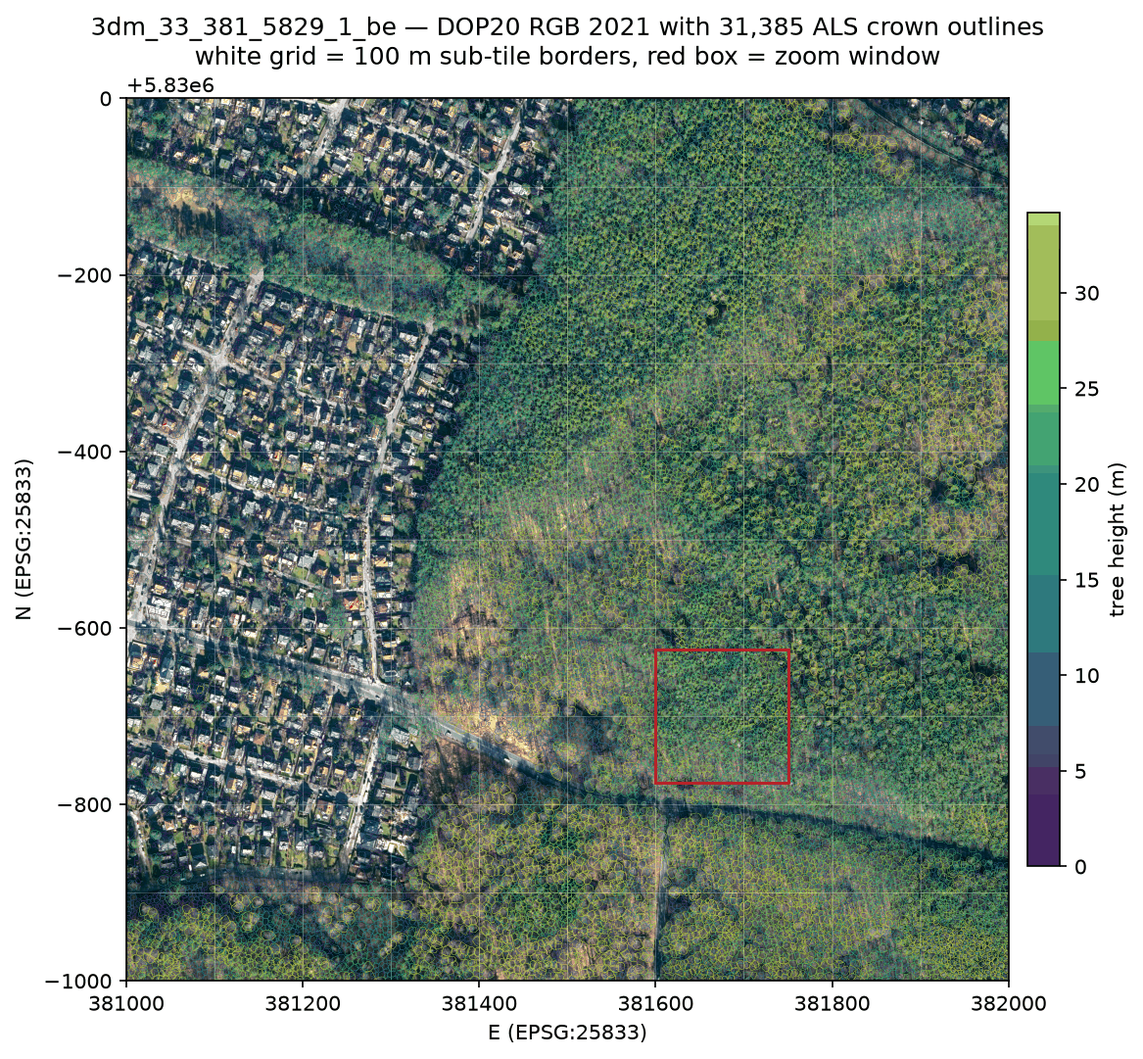
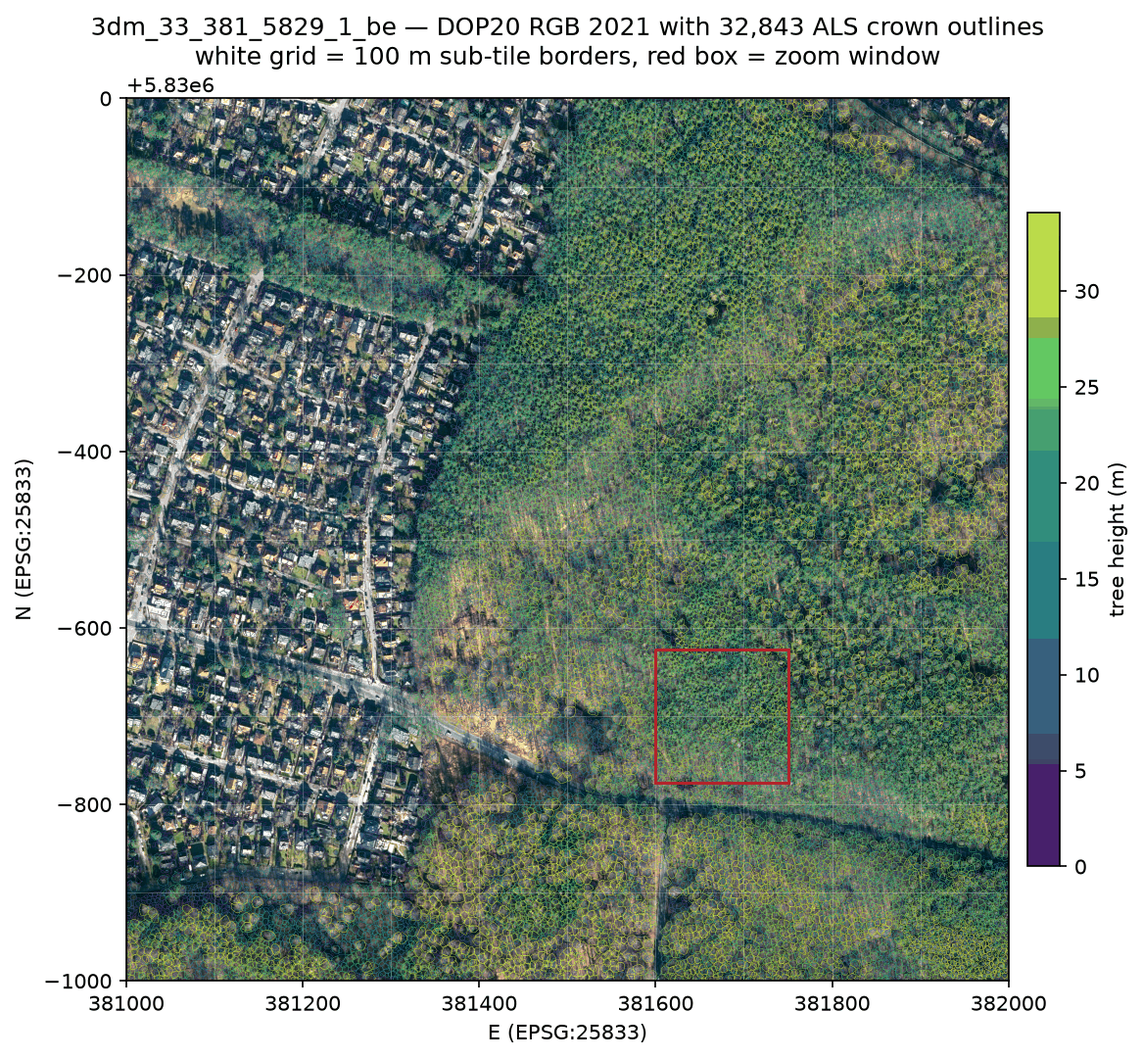
docs: full figure captions and reading guides; DOP overlay figures from the seamless mosaic, stacked
Every figure of the analytics chapter and the study-area map now carries a caption that
says what is plotted and how to read it, followed by a what-we-see paragraph with the
numbers filled from the data. The DOP overlay figures are regenerated from the seamless
33-tile mosaic (the zoom no longer shows the per-tile merge's seams: a crown on a sub-tile
border keeps one id), panels b and d are stacked at full page width, and the mosaic
panel no longer collapses the empty km column 378 (which shifted the imagery west).

diff --git a/benchmark/berlin_analytics.py b/benchmark/berlin_analytics.py
@@ -458,7 +458,16 @@ def write_doc(doc: Path, assets_rel: str, S: dict, labels: dict) -> None:
     # 2 per tile
     if "ff3d" in keys and "sat" in keys:
         lines += ["## 2. Trees per km tile", "",
-                  f"![Trees per km tile]({assets_rel}/analytics_tile_grid.png)", "",
+                  f"![Trees per km tile. Left and middle: the number of tree instances each method reports per "
+                  f"1 km tile (the label is the count in thousands; the grid is the easting and northing of the "
+                  f"tile's south-west corner in km, EPSG:25833; white cells are tiles outside the mosaic). Right: the "
+                  f"SegmentAnyTree count divided by the ForestFormer3D count, red where SegmentAnyTree finds more "
+                  f"trees, blue where it finds fewer; 1.00 would mean identical totals.]({assets_rel}/analytics_tile_grid.png)", "",
+                  "What we see: both methods agree on where the trees are -- the darkest cells are the closed forest "
+                  "in the west (R13) and north-east (the Tegel forest north of 5829), the palest are the lake tile "
+                  "381_5827 (Tegeler See, 2-3 thousand trees) and the housing to the east. The ratio map is not noise: "
+                  "it is a block of red over the R13 forest tiles and a block of blue-to-white over R12 and the "
+                  "built-up tiles, i.e. the two methods differ systematically by forest, not tile by tile.", "",
                   f"SegmentAnyTree finds {fmt(S['sat_over_ff3d'], 3)}x the ForestFormer3D tree count over the mosaic "
                   f"(per tile from {fmt(S['sat_over_ff3d_range'][0], 2)} to {fmt(S['sat_over_ff3d_range'][1], 2)}). "
                   + (f"On the {S['forest_tiles_n']} tiles that are more than half forest by the stand map the ratio averages "
@@ -471,7 +480,18 @@ def write_doc(doc: Path, assets_rel: str, S: dict, labels: dict) -> None:
 
     # 3 distributions
     lines += ["## 3. Size distributions and quality flags", "",
-              f"![Per-tree size distributions]({assets_rel}/analytics_distributions.png)", "",
+              f"![Per-tree size distributions over the whole mosaic. Each panel is a normalised histogram (area 1) "
+              f"of one attribute of the tree table, one curve per method, so curves of methods with different tree "
+              f"counts are comparable in shape: height above ground in 1 m bins; crown area (convex hull of the "
+              f"instance's points) in 4 m² bins; points per instance on a logarithmic axis. "
+              f"n is the number of trees behind each curve.]({assets_rel}/analytics_distributions.png)", "",
+              "What we see: the height panel has two modes for both methods, a tall one at 24-28 m (the pine and oak "
+              "canopy) and a short one at 4-7 m (understory, hedges, young trees in gardens), with a trough at "
+              "12-18 m; ForestFormer3D puts more mass under 8 m and SegmentAnyTree more at 20-30 m. The crown-area "
+              "panel shows SegmentAnyTree's crowns shifted to smaller areas (mode 8-12 m² against 20-30 m²) -- the "
+              "signature of cutting crowns into pieces. The points-per-tree panel has a spike at the smallest sizes "
+              "for ForestFormer3D (instances of 10-20 points, the noise-sized class of the table below) and otherwise "
+              "the same log-linear decline for both.", "",
               md_table(["method", "trees", f"flat blobs (< {FLAT_H:.0f} m, > {FLAT_AREA:.0f} m²)", f"noise-sized (< {SMALL_POINTS} points)", "taller than 40 m"],
                        [[L[k], fmt(S["methods"][k]["trees"]), f"{fmt(S['methods'][k]['flat'])} ({pct(S['methods'][k]['flat_frac'])})",
                          f"{fmt(S['methods'][k]['small'])} ({pct(S['methods'][k]['small_frac'])})",
@@ -487,7 +507,12 @@ def write_doc(doc: Path, assets_rel: str, S: dict, labels: dict) -> None:
     if S.get("three_way_tiles"):
         lines += [f"On the {len(S['three_way_tiles'])} tiles all three methods cover "
                   f"({', '.join(tile_key(t) for t in S['three_way_tiles'])}):", "",
-                  f"![Three methods on the shared tiles]({assets_rel}/analytics_distributions_3way.png)", "",
+                  f"![The same three distributions restricted to the tiles all three methods cover, now with AMS3D. "
+                  f"Same axes and binning as the previous figure.]({assets_rel}/analytics_distributions_3way.png)", "",
+                  "What we see: AMS3D has no short mode at all -- its height distribution starts at about 10 m -- and "
+                  "its crowns are the largest of the three. Mean shift with a height-dependent bandwidth merges the "
+                  "understory into the canopy tree above it, which is why it reports the fewest trees and the tallest "
+                  "ones; the two learned methods separate that layer.", "",
                   md_table(["method", "trees on these tiles", "height p10 / p50 / p90 (m)", "crown p50 (m²)"],
                            [[L[k], fmt(v["trees"]), " / ".join(fmt(x) for x in v["height_q"]), fmt(v["crown_q"][1])]
                             for k, v in S["three_way"].items()]), ""]
@@ -496,7 +521,18 @@ def write_doc(doc: Path, assets_rel: str, S: dict, labels: dict) -> None:
     if S.get("agreement"):
         a = S["agreement"]["ff3d_sat"]
         lines += ["## 4. Instance agreement: ForestFormer3D vs SegmentAnyTree", "",
-                  f"![Agreement per tile]({assets_rel}/analytics_agreement.png)", "",
+                  f"![Instance agreement per km tile between ForestFormer3D (blue) and SegmentAnyTree (magenta), "
+                  f"computed on identical points. Top: the fraction of each method's trees that have a counterpart in "
+                  f"the other method overlapping with IoU ≥ 0.5 (bars), and the median IoU of those matched pairs "
+                  f"(black line, right-hand reading on the same 0-1 axis). Bottom: the fraction of each method's "
+                  f"trees whose points are covered by two or more instances of the other method -- a tree the other "
+                  f"method has split. Tiles are ordered by easting, then northing.]({assets_rel}/analytics_agreement.png)", "",
+                  "What we see: the matched fractions move together from tile to tile (0.35-0.68) and are lowest on the "
+                  "built-up tiles (380_5830, 383_5826/5827), where both methods segment small garden vegetation "
+                  "differently, and highest on closed forest; the median IoU of a match is flat at 0.71-0.78 "
+                  "everywhere, so when the two agree on a tree they agree on its extent. The bottom panel is the "
+                  "asymmetry the whole chapter turns on: the blue bars (ForestFormer3D trees split by SegmentAnyTree) "
+                  "are 2-4x the magenta ones on every tile, 0.32-0.38 on the R13 forest tiles.", "",
                   f"Pooled over {a['tiles']} tiles and {fmt(a['n_points'])} identical points: {fmt(a['matched'])} tree pairs "
                   f"overlap with IoU ≥ 0.5, i.e. {pct(a['matched_frac_a'])} of ForestFormer3D's {fmt(a['n_a'])} trees and "
                   f"{pct(a['matched_frac_b'])} of SegmentAnyTree's {fmt(a['n_b'])}; the median IoU of a matched pair is "
@@ -511,7 +547,17 @@ def write_doc(doc: Path, assets_rel: str, S: dict, labels: dict) -> None:
 
     # 5 seams + buildings
     lines += ["## 5. Seams and the building mask", "",
-              f"![Seams and building mask]({assets_rel}/analytics_seams_buildings.png)", ""]
+              f"![Left: seam residue per km tile after the mosaic-wide stitch -- the percentage of crowns that a "
+              f"100 m grid line (the sub-tile borders used for inference) still intersects, per method; the control "
+              f"value for an arbitrary line through the same crowns is about 8 %. Right: the percentage of "
+              f"ForestFormer3D instances on each tile that the ALKIS building mask removes because at least half of "
+              f"their points lie on a roof.]({assets_rel}/analytics_seams_buildings.png)", "",
+              "What we see, left: ForestFormer3D sits at 10-12 % on every tile, i.e. 2-4 points above the control "
+              "floor, and SegmentAnyTree at 13-16 % with outliers to 20 % -- its smaller, more numerous instances "
+              "touch lines more often, and some of its matches across sub-tiles fail the IoU threshold. Neither shows "
+              "the 30-40 % that an un-haloed split produced. Right: the forest tiles lose nothing (no buildings), the "
+              "lakeside and housing tiles 5-20 %, and 383_5827 -- the densest housing -- 40 % of its instances were "
+              "roofs or roof vegetation.", ""]
     if S.get("stitch"):
         lines += [md_table(["method", "trees after stitch", "instances unified over halos", "cross-km matches", "crowns touching a grid line (mean)", "strip excess (mean pp)"],
                            [[L[k], fmt(v["n_trees"]), fmt(v["n_unified"]), fmt(v["n_cross_km"]), pct(v["touching_mean"]), fmt(v["strip_mean"], 3)]
@@ -531,7 +577,18 @@ def write_doc(doc: Path, assets_rel: str, S: dict, labels: dict) -> None:
         rows = [[sp, v["stands"], fmt(v["area_ha"], 0), fmt(v["trees"]), fmt(v["density_ha"], 0), fmt(v["inv_height"]), fmt(v["pred_median"]), fmt(v["pred_p90"]), fmt(v["crown_median"])]
                 for sp, v in sorted(S["stands"].items(), key=lambda kv: -kv[1]["area_ha"])[:8]]
         lines += ["## 6. Against the forest inventory (Forstbetriebskarte 2014)", "",
-                  f"![Predicted vs inventory height per stand]({assets_rel}/analytics_stand_heights.png)", "",
+                  f"![Predicted canopy height against the forest inventory, one marker per stand (only stands with "
+                  f"at least 20 predicted trees and an inventory height). Horizontal axis: the height of the main "
+                  f"canopy layer from the 2014 Forstbetriebskarte, a stand mean of dominant trees. Vertical axis: "
+                  f"the 90th percentile of ForestFormer3D tree heights inside that stand. Marker size scales with "
+                  f"the number of predicted trees in the stand, colour is the stand's dominant species (six most "
+                  f"frequent by area; grey = other). The dashed line is equality.]({assets_rel}/analytics_stand_heights.png)", "",
+                  f"What we see: the cloud follows the diagonal -- taller stands in the inventory are taller in the "
+                  f"predictions -- and sits {fmt(S['stands_bias_p90'])} m above it, consistently for pine, oak and larch; "
+                  "beech (green, the 30-36 m stands) lies on the line. The offset is expected: the ALS is seven growing "
+                  "seasons younger than the inventory, and a 90th percentile of tree tops exceeds a mean of dominant "
+                  "heights. The few stands far above the line at low inventory height (10-15 m) are young stands "
+                  "where tall remnant trees dominate the predicted percentile.", "",
                   md_table(["dominant species", "stands", "ha", "FF3D trees", "trees / ha", "inventory height (m)", "pred. median (m)", "pred. p90 (m)", "crown p50 (m²)"], rows), "",
                   f"Every ForestFormer3D tree was joined to the stand it stands in ({fmt(S['stands_n'])} stands with at least 20 trees). "
                   "The inventory height is the main canopy layer's height from the 2014 management inventory, a "
@@ -547,7 +604,20 @@ def write_doc(doc: Path, assets_rel: str, S: dict, labels: dict) -> None:
         rows = [[L[k], fmt(v["n_cadastre"]), pct(v["detected_frac"]), pct(v["detected_frac_street"]), pct(v["detected_frac_park"]),
                  fmt(v["n_height_pairs"]), fmt(v["height_bias"], 2), fmt(v["height_mae"], 2), fmt(v["height_r"], 2)] for k, v in c.items()]
         lines += ["## 7. Against the tree cadastre (street and park trees)", "",
-                  f"![Cadastre heights]({assets_rel}/analytics_cadastre.png)", "",
+                  f"![Street and park trees of the Berlin tree cadastre against the predictions. Left: for every "
+                  f"cadastre tree with a predicted tree top within {CADASTRE_MATCH_M:.0f} m, the cadastre's height "
+                  f"(horizontal, whole metres as recorded at inspection, hence the vertical stripes) against the "
+                  f"height of that predicted tree (vertical), one dot per tree, blue ForestFormer3D and magenta "
+                  f"SegmentAnyTree, dashed line = equality. Right: histogram of predicted minus cadastre height "
+                  f"for the same pairs, 1 m bins.]({assets_rel}/analytics_cadastre.png)", "",
+                  f"What we see: the stripes are the cadastre's integer heights, which stop at 30 m. Within each stripe "
+                  f"the predicted heights spread widely, but their centre rises with the cadastre value and the "
+                  f"residual histogram is symmetric about zero with a sharp peak (bias {fmt(S['cadastre']['ff3d']['height_bias'], 2)} m, "
+                  f"MAE {fmt(S['cadastre']['ff3d']['height_mae'])} m): most matched pairs agree to within a few metres. "
+                  "The dots far above the diagonal at cadastre heights of 4-8 m are young street trees whose nearest "
+                  "predicted top belongs to a taller neighbour's crown (the nearest-top rule assigns it anyway); the "
+                  "dots far below are large cadastre trees for which only a fragment was predicted. The two methods "
+                  "overlay almost exactly, so the scatter is the reference's and the matching rule's, not the model's.", "",
                   md_table(["method", "cadastre trees in the mosaic", "with a predicted top ≤ 3 m away", "street", "park", "height pairs", "bias (m)", "MAE (m)", "r"], rows), "",
                   "The cadastre lists managed trees with a surveyed position and a height that is updated at "
                   "inspection, so a predicted tree top within 3 m of a cadastre position is counted as a detection "

diff --git a/benchmark/plot_berlin_dop_overlays.py b/benchmark/plot_berlin_dop_overlays.py
@@ -7,6 +7,8 @@ Produces four figures into ``docs/benchmarks/assets/berlin-dop``:
   b) berlin-dop-381-5829-zoom.png     150 m zoom, DOP + ALS instance raster
   c) berlin-dop-381-5829-drone2025.png same 150 m window on the 2025 drone ortho
   d) berlin-dop-mosaic-density.png    mosaic of every tile with results + crown density
+Panels b and d are stacked vertically at full page width (2026-10-05); the crowns and
+instance rasters come from the seamless mosaic (berlin_als_2021_ff3d_v2) when present.
 
 Run with the repo's CPU venv::
 
@@ -39,7 +41,10 @@ DOP_DIRS = [
     "/Volumes/2TB/winmol/ALS_Data/berlin_dop_2021/dop_2021_rgbi",
 ]
 DOP_DIR = DOP_DIRS[0]
+# The seamless 33-tile mosaic first (ids unique across sub-tile and km-tile borders since
+# the 2026-09-24 stitch); the earlier per-tile merges only as fallbacks.
 ALS_DIRS = [
+    "/Volumes/2TB/winmol/ALS_Data/berlin_als_2021_ff3d_v2",
     "/Users/christian/work/hnee/ForestFormer3D_runs/berlin_out/berlin-2021",
     "/Volumes/2TB/winmol/ALS_Data/berlin_als_2021_ff3d",
 ]
@@ -236,7 +241,9 @@ def fig_b(zoom_bounds):
     lut[0] = 0.08
     rgbi = lut[np.clip(inst + 1, 0, len(lut) - 1)]
     rgbi[inst <= 0] = 0.08
-    fig, ax = plt.subplots(1, 2, figsize=(12.5, 6.6))
+    # two panels stacked, each the full page width: at half width the 150 m window
+    # was too small to see a single crown
+    fig, ax = plt.subplots(2, 1, figsize=(11, 22.6), constrained_layout=True)
     ax[0].imshow(stretch(img), extent=ext)
     ax[0].add_collection(LineCollection(segs, linewidths=0.9, colors="#ff2bd6"))
     ax[0].set_title("DOP20 RGB 2021 + crown outlines")
@@ -245,8 +252,11 @@ def fig_b(zoom_bounds):
     ax[1].set_title("ALS instance raster (50 cm), one colour per tree")
     for a in ax:
         a.set_xlim(ext[0], ext[1]); a.set_ylim(ext[2], ext[3])
-        a.set_xlabel("E (EPSG:25833)")
-    ax[0].set_ylabel("N (EPSG:25833)")
+        a.set_xlabel("E (EPSG:25833)"); a.set_ylabel("N (EPSG:25833)")
+        for x in np.arange(np.ceil(ext[0] / 100) * 100, ext[1], 100):
+            a.axvline(x, color="w", lw=0.7, ls="--", alpha=0.7)
+        for y in np.arange(np.ceil(ext[2] / 100) * 100, ext[3], 100):
+            a.axhline(y, color="w", lw=0.7, ls="--", alpha=0.7)
     fig.suptitle(f"{tname(MAIN)} — {int(ZOOM_SIZE)} m x {int(ZOOM_SIZE)} m zoom "
                  f"at E{int(zoom_bounds[0])} N{int(zoom_bounds[1])}, "
                  f"{len(g)} crowns")
@@ -287,8 +297,11 @@ def fig_d():
     import geopandas as gpd
     present = [t for t in TILES
                if dop_path(t)]
-    es = sorted({int(t.split("_")[0]) for t in present})
-    ns = sorted({int(t.split("_")[1]) for t in present}, reverse=True)
+    # every km column/row between the extremes, not only those with a tile: a gap in the
+    # middle (column 378 of the 33-tile L) otherwise collapses and shifts the image west
+    e_all = [int(t.split("_")[0]) for t in present]; n_all = [int(t.split("_")[1]) for t in present]
+    es = list(range(min(e_all), max(e_all) + 1))
+    ns = list(range(max(n_all), min(n_all) - 1, -1))
     cell = 420
     mosaic = np.full((len(ns) * cell, len(es) * cell, 3), 55, dtype=np.uint8)
     minx, maxx = min(es) * 1000.0, (max(es) + 1) * 1000.0
@@ -308,7 +321,8 @@ def fig_d():
     xs = np.concatenate(xs) if xs else np.array([])
     ys = np.concatenate(ys) if ys else np.array([])
     ext = (minx, maxx, miny, maxy)
-    fig, ax = plt.subplots(1, 2, figsize=(13, 6.4), constrained_layout=True)
+    # stacked: the mosaic is twice as wide as high, so side by side each panel was unreadable
+    fig, ax = plt.subplots(2, 1, figsize=(14, 7.2 * 2 * (maxy - miny) / (maxx - minx) + 3.5), constrained_layout=True)
     ax[0].imshow(mosaic, extent=ext)
     ax[0].set_title(f"DOP20 RGB 2021 mosaic — {len(present)} km tiles\n(grey = no ForestFormer3D result for that km square)", fontsize=11)
     ax[1].imshow(mosaic, extent=ext, alpha=0.55)
@@ -319,7 +333,8 @@ def fig_d():
         h = np.ma.masked_where(h == 0, h)
         im = ax[1].imshow(h.T[::-1], extent=ext, cmap="inferno", alpha=0.75,
                           vmax=np.percentile(h.compressed(), 99))
-        cb = fig.colorbar(im, ax=ax[1], fraction=0.04, pad=0.02)
+        # horizontal, below the panel: a vertical bar would narrow this panel against the top one
+        cb = fig.colorbar(im, ax=ax[1], orientation="horizontal", fraction=0.05, pad=0.04, aspect=50)
         cb.set_label("crowns per 50 m x 50 m cell")
     ax[1].set_title(f"Crown centroid density — {len(xs):,} trees\n"
                     f"over the {len(have_trees)} tiles with ForestFormer3D results",
@@ -331,7 +346,7 @@ def fig_d():
         for n in ns:
             a.axhline(n * 1000, color="w", lw=0.5, alpha=0.5)
         a.set_xlim(minx, maxx); a.set_ylim(miny, maxy)
-    ax[0].set_ylabel("N (EPSG:25833)")
+        a.set_ylabel("N (EPSG:25833)")
     return save(fig, os.path.join(OUT_DIR, "berlin-dop-mosaic-density.png"))
 
 

diff --git a/docs/benchmarks/2026-10-05-berlin-analytics.md b/docs/benchmarks/2026-10-05-berlin-analytics.md
@@ -14,13 +14,17 @@ All three methods ran on the same 20 m-halo split of each km tile and went throu
 
 ## 2. Trees per km tile
 
-![Trees per km tile](assets/analytics/analytics_tile_grid.png)
+![Trees per km tile. Left and middle: the number of tree instances each method reports per 1 km tile (the label is the count in thousands; the grid is the easting and northing of the tile's south-west corner in km, EPSG:25833; white cells are tiles outside the mosaic). Right: the SegmentAnyTree count divided by the ForestFormer3D count, red where SegmentAnyTree finds more trees, blue where it finds fewer; 1.00 would mean identical totals.](assets/analytics/analytics_tile_grid.png)
+
+What we see: both methods agree on where the trees are -- the darkest cells are the closed forest in the west (R13) and north-east (the Tegel forest north of 5829), the palest are the lake tile 381_5827 (Tegeler See, 2-3 thousand trees) and the housing to the east. The ratio map is not noise: it is a block of red over the R13 forest tiles and a block of blue-to-white over R12 and the built-up tiles, i.e. the two methods differ systematically by forest, not tile by tile.
 
 SegmentAnyTree finds 1.036x the ForestFormer3D tree count over the mosaic (per tile from 0.80 to 1.33). On the 16 tiles that are more than half forest by the stand map the ratio averages 1.06, on the other 17 tiles 1.01. The two surveyed forests differ: R12 0.96 (8 tiles with at least a quarter of the tile inside the footprint), R13 1.21 (8 tiles with at least a quarter of the tile inside the footprint). Where SegmentAnyTree reports more trees it has cut crowns into more pieces (section 4); where it reports fewer, ForestFormer3D's extra instances are mostly the small and flat ones of section 3.
 
 ## 3. Size distributions and quality flags
 
-![Per-tree size distributions](assets/analytics/analytics_distributions.png)
+![Per-tree size distributions over the whole mosaic. Each panel is a normalised histogram (area 1) of one attribute of the tree table, one curve per method, so curves of methods with different tree counts are comparable in shape: height above ground in 1 m bins; crown area (convex hull of the instance's points) in 4 m² bins; points per instance on a logarithmic axis. n is the number of trees behind each curve.](assets/analytics/analytics_distributions.png)
+
+What we see: the height panel has two modes for both methods, a tall one at 24-28 m (the pine and oak canopy) and a short one at 4-7 m (understory, hedges, young trees in gardens), with a trough at 12-18 m; ForestFormer3D puts more mass under 8 m and SegmentAnyTree more at 20-30 m. The crown-area panel shows SegmentAnyTree's crowns shifted to smaller areas (mode 8-12 m² against 20-30 m²) -- the signature of cutting crowns into pieces. The points-per-tree panel has a spike at the smallest sizes for ForestFormer3D (instances of 10-20 points, the noise-sized class of the table below) and otherwise the same log-linear decline for both.
 
 | method | trees | flat blobs (< 2 m, > 50 m²) | noise-sized (< 20 points) | taller than 40 m |
 | :--- | ---: | ---: | ---: | ---: |
@@ -34,7 +38,9 @@ The flat-blob flag is the artefact seen in the viewer: an instance with almost n
 
 On the 3 tiles all three methods cover (380_5828, 381_5828, 381_5829):
 
-![Three methods on the shared tiles](assets/analytics/analytics_distributions_3way.png)
+![The same three distributions restricted to the tiles all three methods cover, now with AMS3D. Same axes and binning as the previous figure.](assets/analytics/analytics_distributions_3way.png)
+
+What we see: AMS3D has no short mode at all -- its height distribution starts at about 10 m -- and its crowns are the largest of the three. Mean shift with a height-dependent bandwidth merges the understory into the canopy tree above it, which is why it reports the fewest trees and the tallest ones; the two learned methods separate that layer.
 
 | method | trees on these tiles | height p10 / p50 / p90 (m) | crown p50 (m²) |
 | :--- | ---: | ---: | ---: |
@@ -44,13 +50,17 @@ On the 3 tiles all three methods cover (380_5828, 381_5828, 381_5829):
 
 ## 4. Instance agreement: ForestFormer3D vs SegmentAnyTree
 
-![Agreement per tile](assets/analytics/analytics_agreement.png)
+![Instance agreement per km tile between ForestFormer3D (blue) and SegmentAnyTree (magenta), computed on identical points. Top: the fraction of each method's trees that have a counterpart in the other method overlapping with IoU ≥ 0.5 (bars), and the median IoU of those matched pairs (black line, right-hand reading on the same 0-1 axis). Bottom: the fraction of each method's trees whose points are covered by two or more instances of the other method -- a tree the other method has split. Tiles are ordered by easting, then northing.](assets/analytics/analytics_agreement.png)
+
+What we see: the matched fractions move together from tile to tile (0.35-0.68) and are lowest on the built-up tiles (380_5830, 383_5826/5827), where both methods segment small garden vegetation differently, and highest on closed forest; the median IoU of a match is flat at 0.71-0.78 everywhere, so when the two agree on a tree they agree on its extent. The bottom panel is the asymmetry the whole chapter turns on: the blue bars (ForestFormer3D trees split by SegmentAnyTree) are 2-4x the magenta ones on every tile, 0.32-0.38 on the R13 forest tiles.
 
 Pooled over 33 tiles and 584,133,672 identical points: 451,513 tree pairs overlap with IoU ≥ 0.5, i.e. 53.8 % of ForestFormer3D's 839,626 trees and 52.1 % of SegmentAnyTree's 867,266; the median IoU of a matched pair is 0.742. 26.8 % of ForestFormer3D trees are covered by two or more SegmentAnyTree instances against 11.0 % the other way round: where the two disagree, SegmentAnyTree has mostly cut one crown into several, which is also why it reports more trees.
 
 ## 5. Seams and the building mask
 
-![Seams and building mask](assets/analytics/analytics_seams_buildings.png)
+![Left: seam residue per km tile after the mosaic-wide stitch -- the percentage of crowns that a 100 m grid line (the sub-tile borders used for inference) still intersects, per method; the control value for an arbitrary line through the same crowns is about 8 %. Right: the percentage of ForestFormer3D instances on each tile that the ALKIS building mask removes because at least half of their points lie on a roof.](assets/analytics/analytics_seams_buildings.png)
+
+What we see, left: ForestFormer3D sits at 10-12 % on every tile, i.e. 2-4 points above the control floor, and SegmentAnyTree at 13-16 % with outliers to 20 % -- its smaller, more numerous instances touch lines more often, and some of its matches across sub-tiles fail the IoU threshold. Neither shows the 30-40 % that an un-haloed split produced. Right: the forest tiles lose nothing (no buildings), the lakeside and housing tiles 5-20 %, and 383_5827 -- the densest housing -- 40 % of its instances were roofs or roof vegetation.
 
 | method | trees after stitch | instances unified over halos | cross-km matches | crowns touching a grid line (mean) | strip excess (mean pp) |
 | :--- | ---: | ---: | ---: | ---: | ---: |
@@ -63,7 +73,9 @@ The ALKIS footprints cover every tile; the mask removes 35,842 of 839,626 Forest
 
 ## 6. Against the forest inventory (Forstbetriebskarte 2014)
 
-![Predicted vs inventory height per stand](assets/analytics/analytics_stand_heights.png)
+![Predicted canopy height against the forest inventory, one marker per stand (only stands with at least 20 predicted trees and an inventory height). Horizontal axis: the height of the main canopy layer from the 2014 Forstbetriebskarte, a stand mean of dominant trees. Vertical axis: the 90th percentile of ForestFormer3D tree heights inside that stand. Marker size scales with the number of predicted trees in the stand, colour is the stand's dominant species (six most frequent by area; grey = other). The dashed line is equality.](assets/analytics/analytics_stand_heights.png)
+
+What we see: the cloud follows the diagonal -- taller stands in the inventory are taller in the predictions -- and sits 4.4 m above it, consistently for pine, oak and larch; beech (green, the 30-36 m stands) lies on the line. The offset is expected: the ALS is seven growing seasons younger than the inventory, and a 90th percentile of tree tops exceeds a mean of dominant heights. The few stands far above the line at low inventory height (10-15 m) are young stands where tall remnant trees dominate the predicted percentile.
 
 | dominant species | stands | ha | FF3D trees | trees / ha | inventory height (m) | pred. median (m) | pred. p90 (m) | crown p50 (m²) |
 | :--- | ---: | ---: | ---: | ---: | ---: | ---: | ---: | ---: |
@@ -80,7 +92,9 @@ Every ForestFormer3D tree was joined to the stand it stands in (458 stands with 
 
 ## 7. Against the tree cadastre (street and park trees)
 
-![Cadastre heights](assets/analytics/analytics_cadastre.png)
+![Street and park trees of the Berlin tree cadastre against the predictions. Left: for every cadastre tree with a predicted tree top within 3 m, the cadastre's height (horizontal, whole metres as recorded at inspection, hence the vertical stripes) against the height of that predicted tree (vertical), one dot per tree, blue ForestFormer3D and magenta SegmentAnyTree, dashed line = equality. Right: histogram of predicted minus cadastre height for the same pairs, 1 m bins.](assets/analytics/analytics_cadastre.png)
+
+What we see: the stripes are the cadastre's integer heights, which stop at 30 m. Within each stripe the predicted heights spread widely, but their centre rises with the cadastre value and the residual histogram is symmetric about zero with a sharp peak (bias 0.09 m, MAE 4.3 m): most matched pairs agree to within a few metres. The dots far above the diagonal at cadastre heights of 4-8 m are young street trees whose nearest predicted top belongs to a taller neighbour's crown (the nearest-top rule assigns it anyway); the dots far below are large cadastre trees for which only a fragment was predicted. The two methods overlay almost exactly, so the scatter is the reference's and the matching rule's, not the model's.
 
 | method | cadastre trees in the mosaic | with a predicted top ≤ 3 m away | street | park | height pairs | bias (m) | MAE (m) | r |
 | :--- | ---: | ---: | ---: | ---: | ---: | ---: | ---: | ---: |

diff --git a/docs/benchmarks/2026-09-23-berlin-dop-overlay.md b/docs/benchmarks/2026-09-23-berlin-dop-overlay.md
@@ -105,7 +105,7 @@ Regenerate with `.venv-cpu/bin/python benchmark/plot_berlin_dop_overlays.py`
 
 ![full tile](assets/berlin-dop/berlin-dop-381-5829-crowns.png)
 
-All 31,385 ForestFormer3D crown polygons of `3dm_33_381_5829_1_be` on the DOP20 RGB,
+All 32,843 ForestFormer3D crown polygons of `3dm_33_381_5829_1_be` (seamless mosaic) on the DOP20 RGB,
 outlines coloured by tree height. Look for: outlines stopping cleanly at the forest
 edge against the allotment settlement in the west, the tall (yellow) outlines
 following the mature stands along the eastern and southern margins, and the fact that
@@ -118,13 +118,17 @@ the next two figures.
 
 ![zoom](assets/berlin-dop/berlin-dop-381-5829-zoom.png)
 
-`E381600 N5829225`, 150 m x 150 m, 1,161 crowns. Left: crown outlines in magenta on
-the DOP. Right: the same window of the 50 cm instance raster, one random colour per
-tree, with the outlines repeated in white. Look for: each magenta ring sitting on one
-bright canopy blob in the leaf-off imagery; the sub-tile seams at E381700 and
-N5829300, where the tile-merge leaves a one-pixel gap and occasionally splits a crown
-that straddles the border; and the black unassigned gaps between crowns, which are
-understorey and ground rather than missed trees.
+`E381600 N5829225`, 150 m x 150 m, 1,186 crowns, from the seamless 33-tile mosaic
+(figures regenerated 2026-10-05; the first version of this figure predated the
+mosaic-wide stitch and showed the per-tile merge's seams). Top: crown outlines in magenta
+on the DOP. Bottom: the same window of the 50 cm instance raster, one random colour per
+tree, with the outlines repeated in white; the dashed white lines are the 100 m sub-tile
+borders the inference ran on (E381700 and N5829300). Look for: each magenta ring sitting
+on one bright canopy blob in the leaf-off imagery; crowns that straddle a dashed line
+keeping one colour on both sides -- the halo plus stitch gives a tree on a sub-tile
+border one id, where the earlier per-tile merge left a one-pixel gap and two ids; and
+the black unassigned gaps between crowns, which are understorey and ground rather than
+missed trees.
 
 ### c) Same window, 2021 DOP vs 2025 drone ortho
 
@@ -137,18 +141,21 @@ the 2025 canopy in the closed pine matrix, versus the bare patches in the north-
 of the window where crowns have gone — windthrow and salvage between the two dates —
 and the generally larger 2025 crowns where the stand simply grew into its outlines.
 
-### d) Eleven-tile mosaic and crown density
+### d) The mosaic and its crown density
 
 ![mosaic](assets/berlin-dop/berlin-dop-mosaic-density.png)
 
-Left: the eleven fetched DOP tiles laid out on their real EPSG:25833 grid (grey =
-no tile at that grid cell in the benchmark set — only `381_5830` exists in the
-northern row). Right: the same mosaic behind a 50 m crown-centroid density map built
-from the `<tile>_trees.gpkg` files of all eleven tiles (all have ForestFormer3D results)
-(156,230 trees). Look for: density tracking the forest exactly, dropping to zero over
-the lake in the south-west, the sports field at `E380400 N5829400` and the road
-corridors, and peaking above 120 crowns per 50 m cell in the dense young pine
-regeneration — which is where the per-tree segmentation is hardest to verify by eye.
+Top: the DOP tiles of every km square with a ForestFormer3D result, laid out on their
+real EPSG:25833 grid (33 tiles since 2026-09-24; grey = no result at that grid cell --
+the L shape is the processed block, see the study-area map of the introduction).
+Bottom: the same mosaic behind a 50 m crown-centroid density map built from the
+`<tile>_trees.gpkg` files of all 33 tiles (832,130 trees). Look for: density tracking
+the forest exactly, dropping to zero over the Tegeler See, the sports field at
+`E380400 N5829400`, the airfield in the north-west of the eastern block and the road
+corridors, and peaking above 120 crowns per 50 m cell in dense young pine regeneration
+-- which is where the per-tree segmentation is hardest to verify by eye. The western
+block (R13) is as dense as the Tegel forest; its southern half is the eleven tiles now
+being processed.
 
 ## Caveats
 

diff --git a/docs/benchmarks/2026-10-05-introduction.md b/docs/benchmarks/2026-10-05-introduction.md
@@ -18,7 +18,9 @@ point clouds:
 
 ## The study area
 
-![The study area: km tiles by status, forest stands, survey footprints](assets/analytics/analytics_study_area.png)
+![The study area in EPSG:25833. Green: the forest stands of the Berlin Forstbetriebskarte 2014; grey: ALKIS building footprints; squares: the 1 km ALS tiles, labelled easting_northing of their south-west corner in km -- solid blue = processed by all methods and in the mosaic, dashed orange = downloaded and being processed, dashed red = not fetched; thick outlines: the WINMOL 2025 survey footprints of Revier 12 Tegelsee (blue, east) and Revier 13 Spandau (purple, west).](assets/analytics/analytics_study_area.png)
+
+The map explains the shape of the mosaic: the processed block is an L around the Tegel forest and the northern half of R13; the orange tiles are the southern half of R13 (375_5826 and 376_5826 are entirely forest) that the first batch did not include; the red tiles north and south hold forest of Reviere 11 and 15 outside both survey footprints. Buildings crowd the eastern tiles (Tegel, Heiligensee) and are absent from the forest tiles, which is why the building mask matters on some tiles and not at all on others.
 
 The area is the Tegel and Spandau forest complex in north-western Berlin, chosen because
 the WINMOL project surveyed two districts there in 2025 with drones and field circles:
